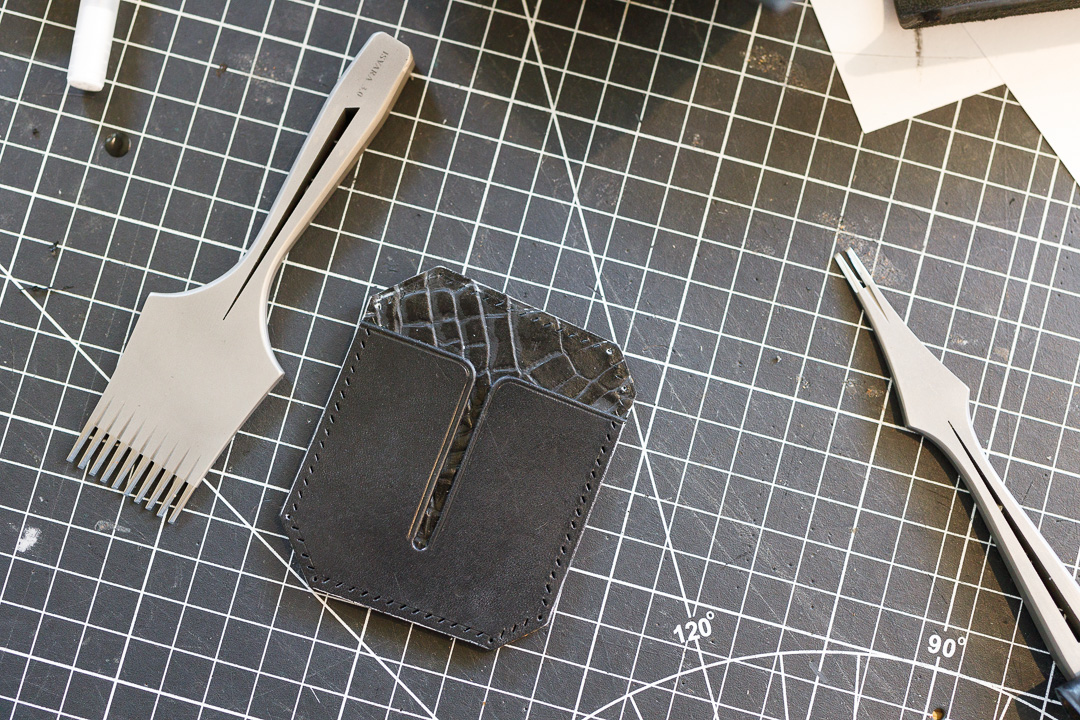
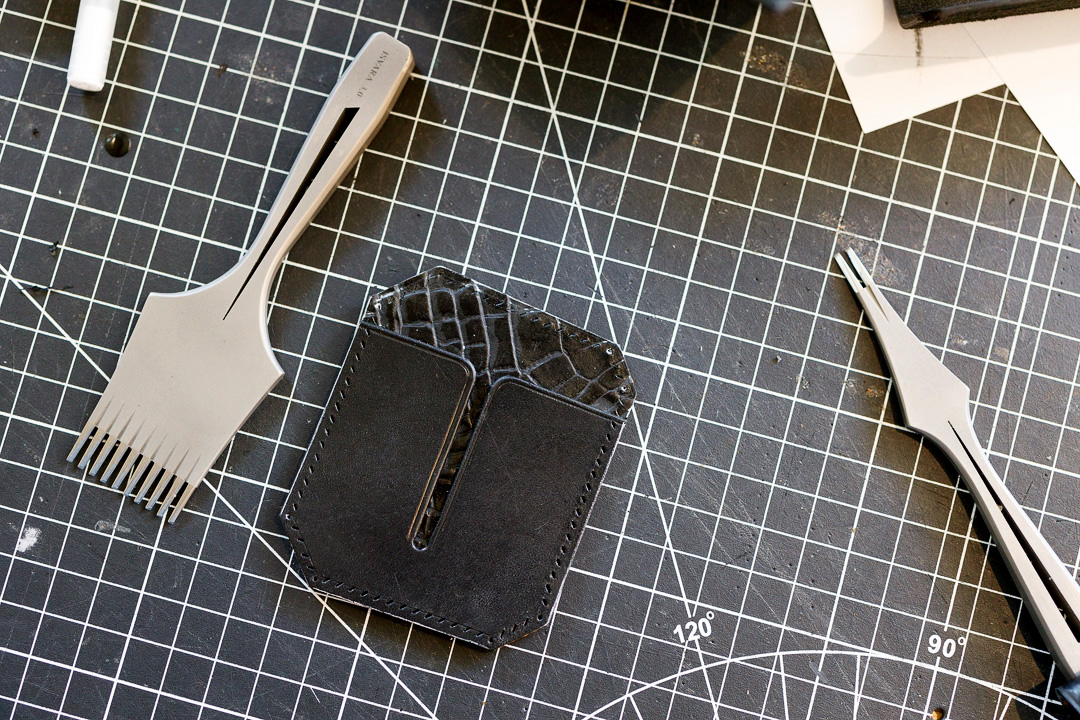
Updates

diff --git a/_posts/2025-12-27-DAKKA-CAN-XREAL.md b/_posts/2025-12-27-DAKKA-CAN-XREAL.md
@@ -2,7 +2,7 @@
 layout: post
 title: "XREAL Daka Case"
 subtitle: "" 
-optimized_image: /files/XREAL/1/EOSR8571-Edit.jpg
+optimized_image: /files/XREAL/1/EOSR8580-Edit.jpg
 category: 
 tags:
   - XREAL
@@ -14,32 +14,24 @@ toc: true
 
 ## XREAL One
 
-### XR
 
-The XREAL One is a pair of XR display glasses. In practical terms, it is a portable external monitor worn like glasses and connected over USB-C.
+The XREAL One glasses are highly capable XR glasses that go beyond gaming and entertainment. With a wider field of view, better screen quality, improved comfort, and native 3 DoF tracking, they are plausibly something one could use for everyday productivity.
 
-While far from a desktop replacememt, they are incredible for mobile use: travel, site visits, temporary desks, and other and other places where a laptop is available but the screen is limiting. The glasses provide a larger working area without carrying a larger computer, and the ultrawide mode makes them even more useful.
+They are still far from a desktop replacement, but they are excellent for mobile productivity: travel, site visits, temporary desks, and anywhere else a laptop is available but the screen is limiting. The appeal is simple: an ultrawide monitor beamed right into your eyes.
 
-#### Specs
+## Problem with stock carrying case
 
-- 50 degree field of view
-- 0.68" Sony Micro-OLED display
-- 1920x1080 resolution
-- 120 Hz refresh rate
-
-### Problem with stock carrying case
-
-The weak point is the stock carrying case. It is larger than it needs to be, has no separate cable compartment, and the closure is not secure enough for loose bag use.
+The stock carrying case isn't great. It is larger than it needs to be, has no separate cable compartment, and the closure is not secure enough for loose bag use.
 
 It protects the glasses when handled deliberately, but is not sufficient to be able to put the glasses in a bag and stop thinking about them.
 
-### Aftermarket EVA foam cases
+## Aftermarket EVA foam cases
 
-Aftermarket EVA foam cases improve some of this. The better options have smaller form factors, zipper closures, and cable compartments.
+Aftermarket EVA foam cases improve some of this. The better ones are smaller, use zipper closures, and include cable compartments.
 
-However, the several products I tried are all EVA foam cases. Despite being advertised as a hard shell, the case is very much crushable. It is better organized than the stock case, but it is still not something I would bury in a bag under tools, chargers, or other objects.
+But after buying and returning several of them, I found they all had the same problem: they are still soft cases. Despite being advertised as hard shell, they are very much crushable. They are better organized than the stock case, but I still would not bury one in a bag under tools, chargers, or anything heavy.
 
-### Pelican Inspired Case
+## Pelican-Style Case
 
 The first solution I tried was a derived Pelican-inspired 3D printed case. I added reinforced ribs for crush protection, a separate cable storage compartment, and designed a silicone cradle for the glasses.
 
@@ -81,7 +73,6 @@ The shell is reinforced polymer, so it addresses the main failure point of the E
 
 The interior volume is tight enough to keep the case compact, but large enough for an insert, a soft contact surface, and a cable divider. That makes the Daka Can a better base than designing the entire enclosure from scratch.
 
-
 # Custom Insert
 
 This was my first leather project after a long hiatus, so I wanted something small and controlled. The goal was a simple insert that would make the Daka Can usable for the XREAL One without changing the case itself.
@@ -105,7 +96,7 @@ I tried drawing it from measurements first, but the geometry was awkward enough 
 
 ### Main Panel
 
-The main panel started with the traced pattern transferred onto 1mm Salpa. I punched the indexing notches and placement markers before adding the softer layers, since those reference points become harder to locate once the panel is built up.
+The main panel is built around a 1 mm Salpa stiffener, cut from the traced pattern. I punched the indexing notches and placement markers before adding the softer layers, since those reference points become harder to locate once the panel is built up.
 
 <figure>
   <img src="/files/XREAL/1/xreal-8361.jpg">
@@ -133,7 +124,7 @@ After the layers were assembled, I trimmed the panel to final size and checked t
    <figcaption>Trimmed main panel during mock fit.</figcaption>
 </figure>
 
-One issue came from the stretch in the calf skin. When pull cutting for trimming, the material stretched ahead of the blade and then shrank back after the cut, leaving one side over-cut. I patched that edge with a turned-edge trim piece rather than rebuilding the panel.
+I forgot how stretchy calfskin can be. Between the contact cement layer and the pull cut, the softer material dragged and stretched as the blade passed through it. Once the cut was finished, it relaxed back into shape, leaving one side overcut. Rather than rebuild the panel, I patched the edge with a turned-edge trim piece. 
 
 <figure>
   <img src="/files/XREAL/1/xreal-8389.jpg">
@@ -142,7 +133,7 @@ One issue came from the stretch in the calf skin. When pull cutting for trimming
 
 ### Lid insert
 
-The lid insert holds the microfiber cloth and finishes the inside of the case lid. This part was built cut-to-size.
+The lid insert holds the microfiber cloth and finishes the inside of the case lid. This part was built trim-to-size as well.
 
 <figure>
   <img src="/files/XREAL/1/xreal-8362.jpg">
@@ -217,13 +208,20 @@ I finished the exposed edges with Uniters edge paint. This is mostly a finishing
 
 Overall, not without issues. What I would do differently:
 
-- Microfiber cloth holder is not practical
+- Microfiber cloth holder is not practical, the pocket needs a lot more slack.
 - Cable compartment is too tight, so insertion/removal of the glasses isn't smooth
-- The divider doesn't need to be padded
+  - The divider doesn't need to be padded
+  - Revised divider pattern is reflected in the CAD drawing
 
 <figure>
-  <img src="/files/XREAL/1/EOSR8571-Edit.jpg">
+  <img src="/files/XREAL/1/EOSR8620-Edit.jpg">
 </figure>
 
+<figure>
+  <img src="/files/XREAL/1/EOSR8580-Edit.jpg">
+</figure>
 
+<figure>
+  <img src="/files/XREAL/1/EOSR8597.jpg">
+</figure>
 